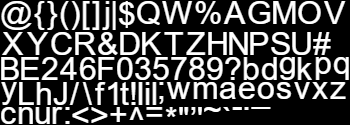
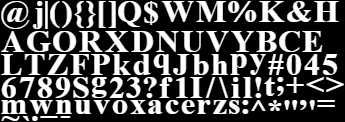
Almost done with difficult overlays

diff --git a/ProjectTemplate/Source/DRAW/UIOverlays.h b/ProjectTemplate/Source/DRAW/UIOverlays.h
@@ -9,11 +9,27 @@
 #include "../UTIL/Utilities.h"
 
 ScoreSystem Scorring;
+float flashStart = 0.0f;
+float flashEnd = 1.1f;
+float timer = 0.0f;
+bool flashOn = true;
+int leftStart;
+float rightStart;
+int rightScroll;
+int leftScroll;
+bool typed = false;
+float keyTimer = 0.0f;
+float keyPress = 2.0f;
+int keyCount = 0;
 
 void InitializeUIOverlays(entt::registry& registry, entt::entity entity) {
 	std::shared_ptr<const GameConfig> config = registry.ctx().get<UTIL::Config>().gameConfig;
 	int windowWidth = (*config).at("Window").at("width").as<int>();
 	int windowHeight = (*config).at("Window").at("height").as<int>();
+	rightScroll = (windowWidth / 2) - 100;
+	leftScroll = (windowWidth / 2) + 25;
+	leftStart = windowWidth;
+	rightStart = 0;
 	auto& win = registry.get<GW::SYSTEM::GWindow>(entity);
 	auto& surface = registry.get<DRAW::VulkanRenderer>(entity).vlkSurface;
 
@@ -29,7 +45,7 @@ static void GameplayUI(entt::registry& registry, Overlay& ovl, GW::GRAPHICS::GBl
 	font.DrawTextImmediate(W - (W / 6), 25, "2UP", 3);
 	font.DrawTextImmediate((W / 2) - 100, 25, "HIGH SCORE", 10);
 	std::string score = std::to_string(Scorring.GetScore());
-	font.DrawTextImmediate((W / 2) - 50, 60, score.c_str(), score.length());
+	font.DrawTextImmediate((W / 2), 60, score.c_str(), score.length());
 	std::string hits;
 	auto player = registry.view<GAME::Player>();
 	for (auto entity : player) {
@@ -48,10 +64,93 @@ static void GameplayUI(entt::registry& registry, Overlay& ovl, GW::GRAPHICS::GBl
 }
 
 static void StartMenu(entt::registry& registry, Overlay& ovl, GW::GRAPHICS::GBlitter& bltr, BLIT_Font& font, int W, int H) {
+	float deltaTime = registry.ctx().get<UTIL::DeltaTime>().dtSec;
 	bltr.ClearColor(0x00000000);
 	font.DrawTextImmediate(W / 8, 25, "1UP", 3);
 	font.DrawTextImmediate(W - (W / 6), 25, "2UP", 3);
 	font.DrawTextImmediate((W / 2) - 100, 25, "HIGH SCORE", 10);
+	font.DrawTextImmediate((W / 2) - 150, H - 25, "2026 CRIMSON MILLENIA", 21);
+	if (rightStart < rightScroll) {
+		rightStart += deltaTime * 190;
+	}
+	if (leftStart != leftScroll) {
+		leftStart -= deltaTime * 10;
+	}
+	font.DrawTextImmediate(rightStart, H - 70, "CRIMSON ", 8);
+	font.DrawTextImmediate(leftStart, H - 70, "MILLENIA", 8);
+	font.DrawTextImmediate((W / 2) - 35, (H / 2), "2851", 4);
+	//font.DrawTextImmediate((W / 3), (H / 3),		"_____________      ===    =====  ==", 29);
+	//font.DrawTextImmediate((W / 3), (H / 3) - 20,  "/             |=====   ==", 28);
+	//font.DrawTextImmediate((W / 3), (H / 3) - 20, "/      ___     |=====   ==", 28);
+	//font.DrawTextImmediate((W / 3), (H / 3) - 20, "|      |  |    | =====   ==", 28);
+	//font.DrawTextImmediate((W / 3), (H / 3) - 20, "____      ===     =====   ==", 28);
+	//font.DrawTextImmediate((W / 3), (H / 3) - 20,	"===      ===     =====   ==", 28);
+	//font.DrawTextImmediate((W / 3), (H / 3) - 20,	"===      ===     =====   ==", 28);
+	//font.DrawTextImmediate((W / 3), (H / 3) - 20,	"===      ===     =====   ==", 28);
+	if (timer <= flashEnd && flashOn) {
+		timer += deltaTime;
+		font.DrawTextImmediate((W / 2) - 100, (H / 2) + 100, "PRESS START", 11);
+	}
+	else {
+		flashOn = false;
+	}
+	if (timer >= flashStart && !flashOn){
+		timer -= deltaTime;
+	}
+	else {
+		flashOn = true;
+	}
+	unsigned int* pixels;
+	ovl.LockForUpdate(W * H, &pixels);
+	bltr.ExportResult(false, W, H, 0, 0, pixels, nullptr, nullptr); 
+	ovl.Unlock();
+	ovl.TransferOverlay();
+}
+
+static void EndOfLevel(entt::registry& registry, Overlay& ovl, GW::GRAPHICS::GBlitter& bltr, BLIT_Font& font, int W, int H) {
+	float deltaTime = registry.ctx().get<UTIL::DeltaTime>().dtSec;
+	bltr.ClearColor(0x00000000);
+	font.DrawTextImmediate(W / 8, 25, "1UP", 3);
+	font.DrawTextImmediate(W - (W / 6), 25, "2UP", 3);
+	font.DrawTextImmediate((W / 2) - 100, 25, "HIGH SCORE", 10);
+	std::string score = std::to_string(Scorring.GetScore());
+	font.DrawTextImmediate((W / 2), 60, score.c_str(), score.length());
+	std::string hits;
+	auto player = registry.view<GAME::Player>();
+	for (auto entity : player) {
+		auto hitpoints = registry.get<GAME::Health>(entity).HP;
+		for (int i = 0; i < hitpoints; i++) {
+			hits[i] = '^';
+		}
+	}
+	font.DrawTextImmediate(5, H - 20, hits.c_str(), 7);
+	font.DrawTextImmediate(W - 75, H - 20, "RRR", 3);
+	std::string statHeader;
+	std::string proficiency = "TERMINATING CRAFTS 00%";
+	if (keyCount != proficiency.length()) {
+		if (keyTimer < keyPress && !typed) {
+			keyTimer += deltaTime;
+			for (int i = 0; i < keyCount; i++) {
+				statHeader += proficiency[i];
+			}
+			keyCount++;
+		}
+		else {
+			typed = true;
+			keyTimer -= deltaTime;
+			if (keyTimer <= 0.04f) {
+				keyTimer = 0.0f;
+				typed = false;
+			}
+		}
+	}
+	else {
+		statHeader = proficiency;
+	}
+	font.DrawTextImmediate((W / 4) + 25, (H / 2) - 50, statHeader.c_str(), statHeader.length());
+	font.DrawTextImmediate((W / 2) - 50, (H / 2) + 50, "BONUS", 5);
+	font.DrawTextImmediate((W / 2) - 75, (H / 2) + 100, "0000 PTS", 8);
+	font.DrawTextImmediate((W / 3) + 25, (H / 2) + 150, "R X 1000 = 3000 PTS", 19);
 	unsigned int* pixels;
 	ovl.LockForUpdate(W * H, &pixels);
 	bltr.ExportResult(false, W, H, 0, 0, pixels, nullptr, nullptr);
@@ -62,13 +161,13 @@ static void StartMenu(entt::registry& registry, Overlay& ovl, GW::GRAPHICS::GBli
 void UpdateUIOverlays(entt::registry& registry, int state, Overlay& ovl, GW::GRAPHICS::GBlitter& bltr, BLIT_Font& font, int W, int H) {
 	switch (state) {
 	case 0:
-
+		StartMenu(registry, ovl, bltr, font, W, H);
 	break;
 	case 1:
 		GameplayUI(registry, ovl, bltr, font, W, H);
 	break;
 	case 2:
-
+		EndOfLevel(registry, ovl, bltr, font, W, H);
 	break;
 	case 3:
 

diff --git a/ProjectTemplate/Source/DRAW/VulkanRenderer.cpp b/ProjectTemplate/Source/DRAW/VulkanRenderer.cpp
@@ -704,7 +704,7 @@ namespace DRAW
 		auto& overlay = registry.get<Overlay>(entity);
 		auto& blitter = registry.get<GW::GRAPHICS::GBlitter>(entity);
 		auto& font = registry.get<BLIT_Font>(entity);
-		UpdateUIOverlays(registry, 1, overlay, blitter, font, windowWidth, windowHeight);
+		UpdateUIOverlays(registry, 2, overlay, blitter, font, windowWidth, windowHeight);
 		overlay.RenderOverlay();
 
 		vulkanRenderer.vlkSurface.EndFrame(true);
